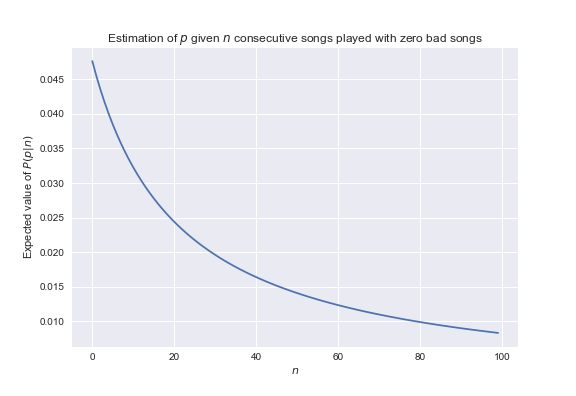
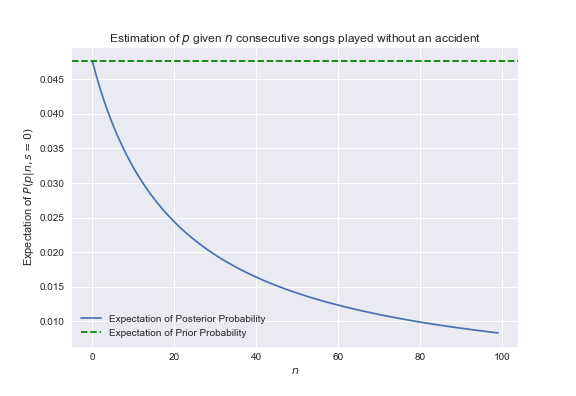
updating plots

diff --git a/_posts/2020-04-20-my-quarantine-playlist.md b/_posts/2020-04-20-my-quarantine-playlist.md
@@ -4,7 +4,7 @@ mathjax: true
 title: My Quarantine Playlist
 github: https://github.com/dantegates/my-quarantine-playlist
 creation_date: 2020-04-20
-last_modified: 2020-04-23 11:31:21
+last_modified: 2020-04-23 11:50:43
 tags: 
   - Bayesian Inference
 ---
@@ -144,7 +144,10 @@ E[P(p|n,\alpha=1,\beta=20)]=\frac{1}{21 + n}
 $$
 
 The following plot shows how our estimate of $p$ is updated after $n$ consecutive "not *bad*"
-songs play.
+songs play. The expectation of the prior probability is included here, which gives us a nice
+visual of what John Krusche means when he says Bayesian inference is about ["reallocation of
+belief"](https://pdfs.semanticscholar.org/dea6/0927efbd1f284b4132eae3461ea7ce0fb62a.pdf).
+Keep in mind the axes here have completely different meanings than the plots above.
 
 ![](./beta.png)
 
